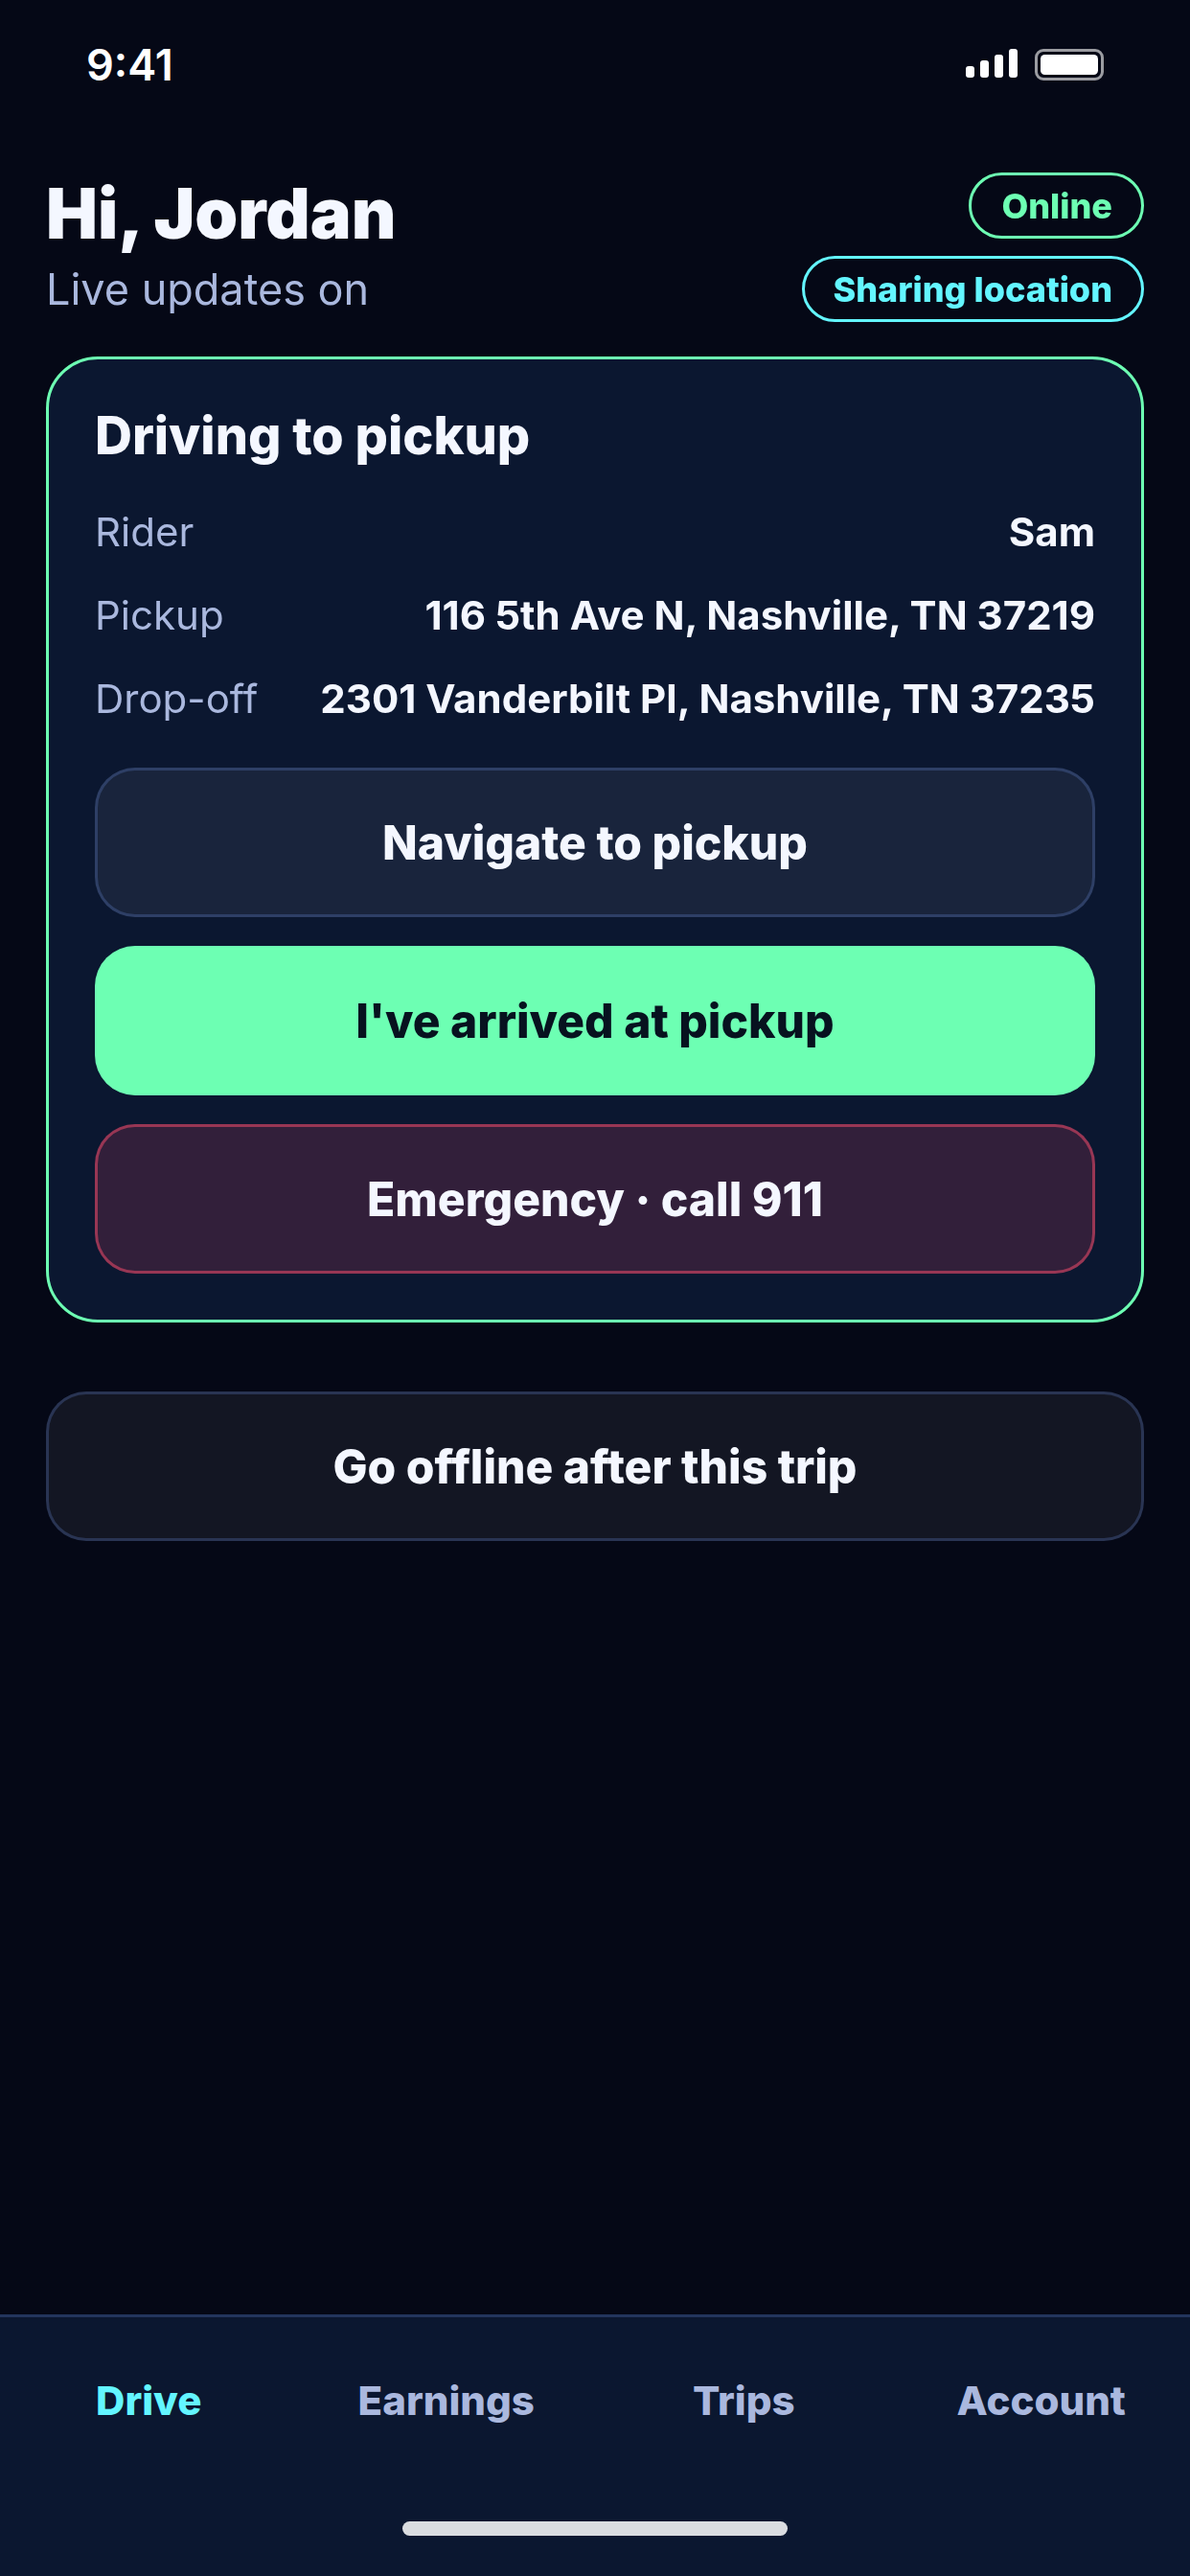
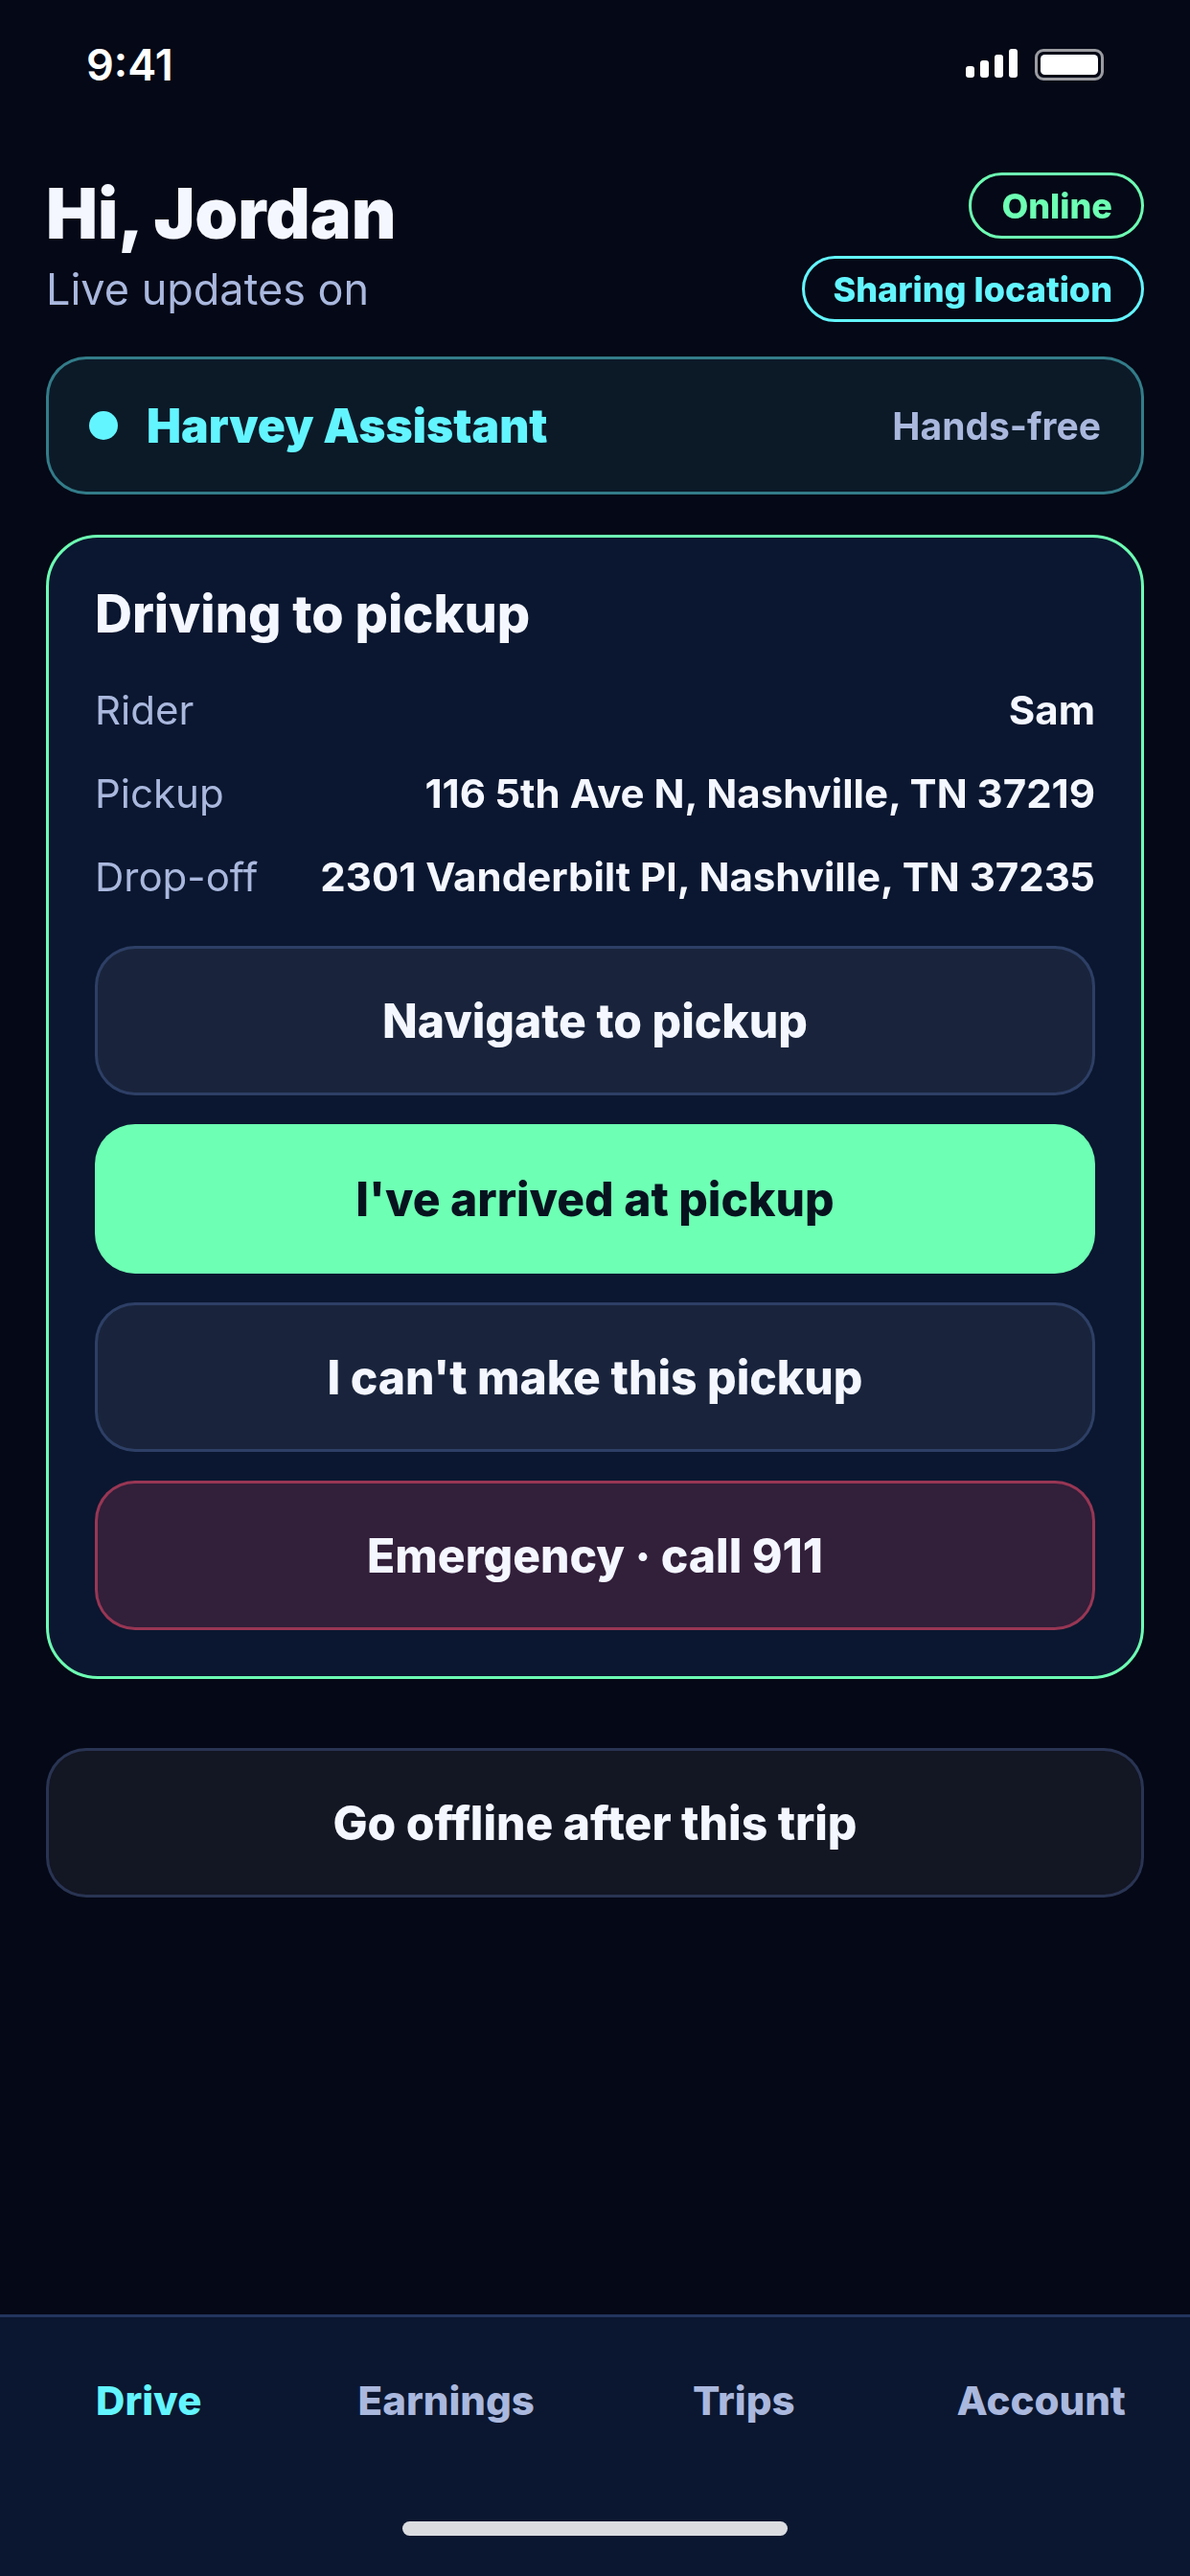
Driver listing: check against build 1.0.0 (13), refresh changed screenshots
Re-rendered every driver screen from build 13's source (ac45c9a) with the
same test data. Sign-in, trips and earnings are pixel-identical and stay;
online, ride offer and active trip changed (Harvey Assistant bar, shift
hours line, "I can't make this pickup") and are replaced at both sizes.

docs/driver-app-store.md: build 13, upload order (sign-in last, guideline
2.3.3), one description line for Harvey Assistant, manual release, and a
blocking note on third-party AI for the review driver (guideline 5.1.2(i)).

Claude-Session: https://claude.ai/code/session_01NLS9NQfpaLwc6iu7ve7HfQ

Changed region(s): [[0.0306, 0.125, 0.9791, 0.6562], [0.2754, 0.6875, 0.7343, 0.7188]]

diff --git a/docs/driver-app-store.md b/docs/driver-app-store.md
@@ -29,6 +29,7 @@ reverse. Items marked **[owner]** need facts only you have.
 > • Mark arrival, start and complete each trip
 > • See your earnings and trip history
 > • Reach support or call 911 from the app
+> • Ask Harvey Assistant about going online, ride offers, your next trip step, earnings and support
 >
 > While you're online or on a trip, the app shares your location with Harvey
 > Taxi, including when the app is closed or the screen is locked. That's how
@@ -150,7 +151,24 @@ iPad); screens keep a 680-point centred column there instead of stretching.
 
 Prepared (rendered from the app's real screens with test data, no personal
 information): `store-screenshots/ios-6.5/` and `store-screenshots/ipad-13/`.
-iPad support needs a new iOS build before those screenshots match a build.
+
+**Checked against build 1.0.0 (13) on 2026-10-10** by re-rendering every
+screen from that build's source (commit `ac45c9a`) with the same test data:
+
+| Screenshot | Result |
+|---|---|
+| 01 sign-in, 05 trips, 06 earnings | Pixel-identical to build 13. Keep the uploaded images. |
+| 02 online, 03 ride offer, 04 active trip | Changed since 3 October. Build 13 adds the Harvey Assistant bar and the "Online this shift" hours line, and the trip card adds "I can't make this pickup". Replaced with build 13 renders (both sizes); replace these three in App Store Connect. |
+
+The live trip map (Mapbox) appears in the trip card only when the server
+supplies a map token. It is native-only and can't be rendered here, so
+04 shows the card without the map. Optionally replace 04 with a screenshot
+from an iPhone running TestFlight build 13 during device testing (6.5"
+slot: 1242×2688 or 1284×2778).
+
+Guideline 2.3.3 says screenshots should show the app in use, "not merely
+the title art, login page, or splash screen". Upload order: 02, 03, 04,
+05, 06, then 01 last (or omit 01).
 
 ## Privacy policy
 
@@ -217,7 +235,49 @@ remove location, photo, addresses, license and plate numbers and push tokens
 | Version 1.0 | Support URL | https://harveytaxiservice.com/support.html |
 | Version 1.0 | Marketing URL (optional) | https://harveytaxiservice.com |
 | Version 1.0 | Copyright | **Owner to confirm** the legal name: "2026 Harvey Taxi Service LLC" |
-| Version 1.0 | Build | 1.0.0 (5), EAS build c618fa32 (uploaded 2026-10-03 16:20 UTC) |
+| Version 1.0 | Build | 1.0.0 (13), EAS build be70953b, commit `ac45c9a` (attached and saved by the owner on 2026-10-10) |
 | App Review | Contact first and last name, phone, email | **Owner to provide.** Not published anywhere we can verify. |
 | App Review | Sign-in required | Yes: the review driver's email and password (owner enters them in App Store Connect only) |
 | App Review | Notes | The App Review notes above |
+
+## Version 1.0.0 (13): readiness review (2026-10-10)
+
+The owner entered this listing in App Store Connect for **Harvey Taxi Driver
+(6818705885)** on 2026-10-03; none of it belongs to Harvey Taxi Mobile
+(6761548295). It stays as entered except for the items below.
+
+| Item | Status |
+|---|---|
+| Build | 1.0.0 (13) attached and saved; HTS DRIVER icon shown under Included Assets |
+| Export compliance | Answered by the build: `usesNonExemptEncryption: false` |
+| Screenshots | Replace 02, 03, 04 (see Screenshots) and put 01 last |
+| Description | One added line for Harvey Assistant, which is on for all drivers (`agent_assist_enabled`) and shown in the screenshots |
+| Review account hours | Review accounts get no hours data, so App Review can't hit the 12-hour limit |
+| Version release | **Manually release this version** (owner to select and save) |
+| Third-party AI (guideline 5.1.2(i)) | **Blocking. Resolve before submitting.** See below. |
+
+### Third-party AI and the review account
+
+Verified on 2026-10-10:
+- Production `agent_model_mode` is `test_accounts`, and
+  `agent_model_test_accounts` includes `driver:DRIVER_GPLAY_REVIEWER`, the
+  account App Review would sign in with. Its assistant questions are
+  answered by Claude Haiku (Anthropic).
+- Build 13 (commit `ac45c9a`) predates the "AI-generated by Harvey
+  Assistant" label (#206), so the app doesn't show that an answer came from
+  an AI model.
+- The live privacy policy doesn't name Anthropic. The disclosure is in
+  draft PR #207, which is not approved or published.
+- The app has no screen that asks permission before sending a question to
+  a third-party AI.
+
+Guideline 5.1.2(i): "You must clearly disclose where personal data will be
+shared with third parties, including with third-party AI, and obtain
+explicit permission before doing so."
+
+Recommended before submitting build 13 (needs owner approval; it changes a
+production flag): remove `driver:DRIVER_GPLAY_REVIEWER` from
+`agent_model_test_accounts`, so the review driver gets the same rules-based
+answers as every other driver and no question goes to a third-party AI.
+Model answers in the driver app then wait for a build with the label, an
+in-app permission step and the published privacy disclosure.
